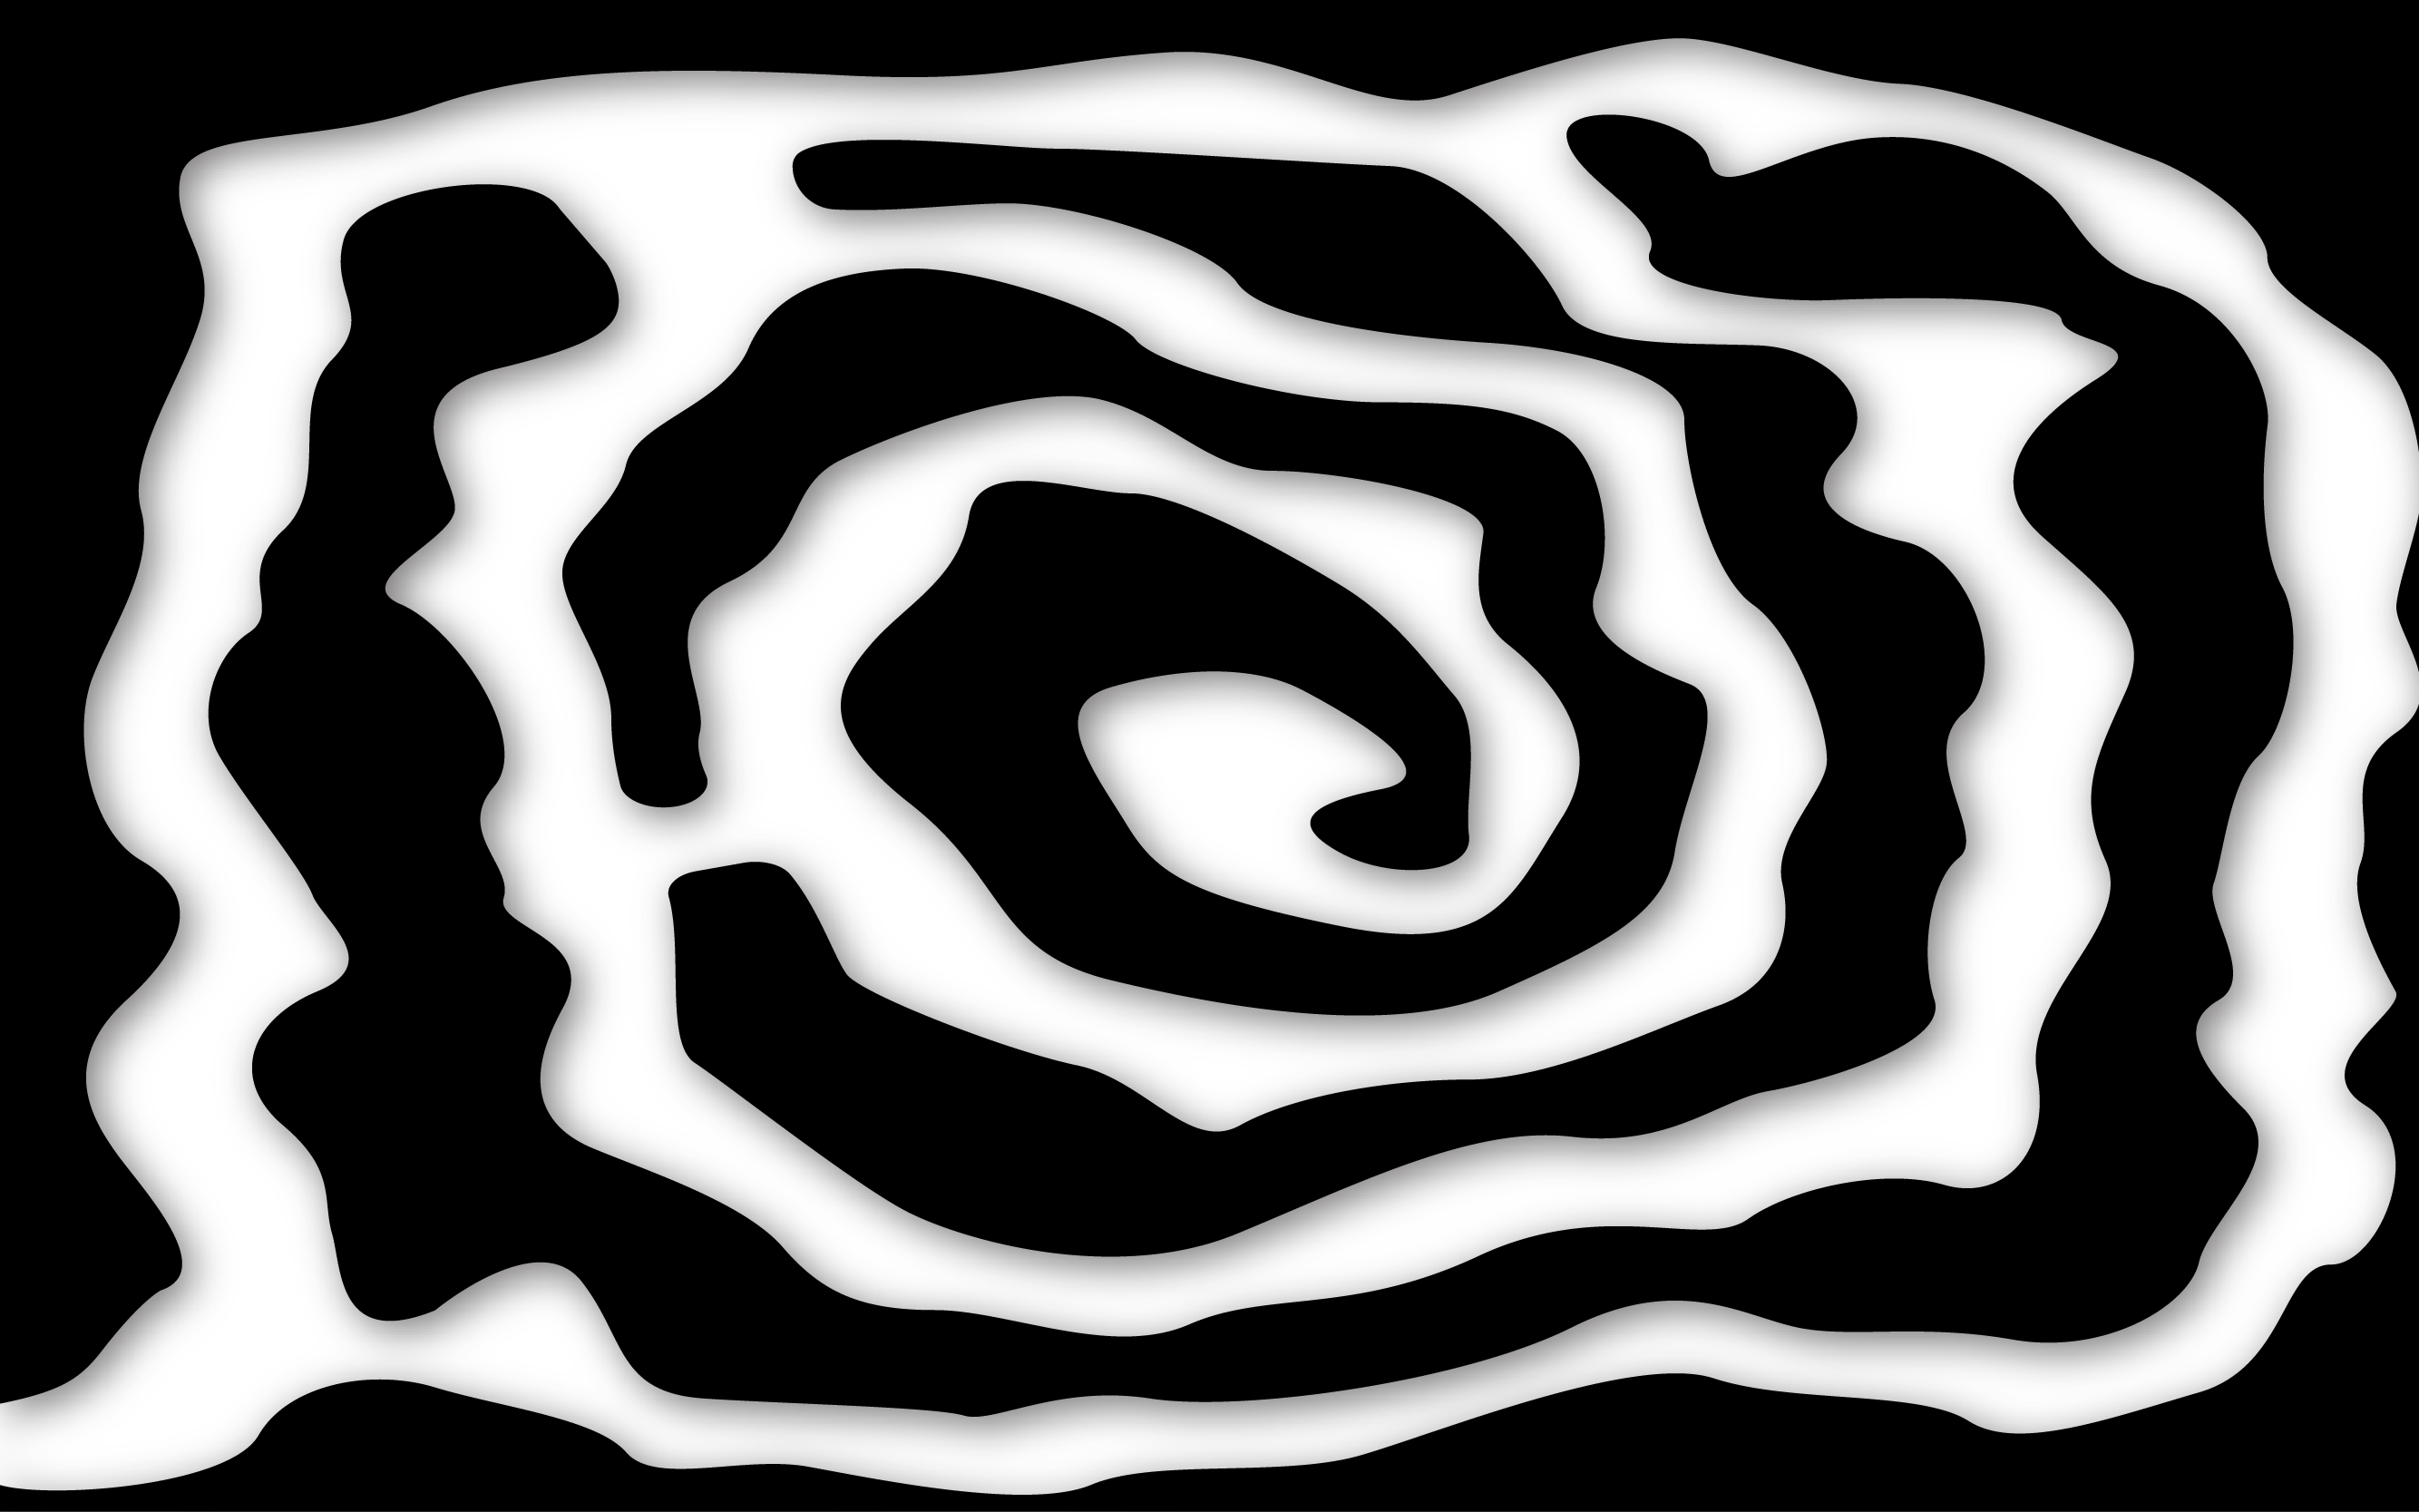
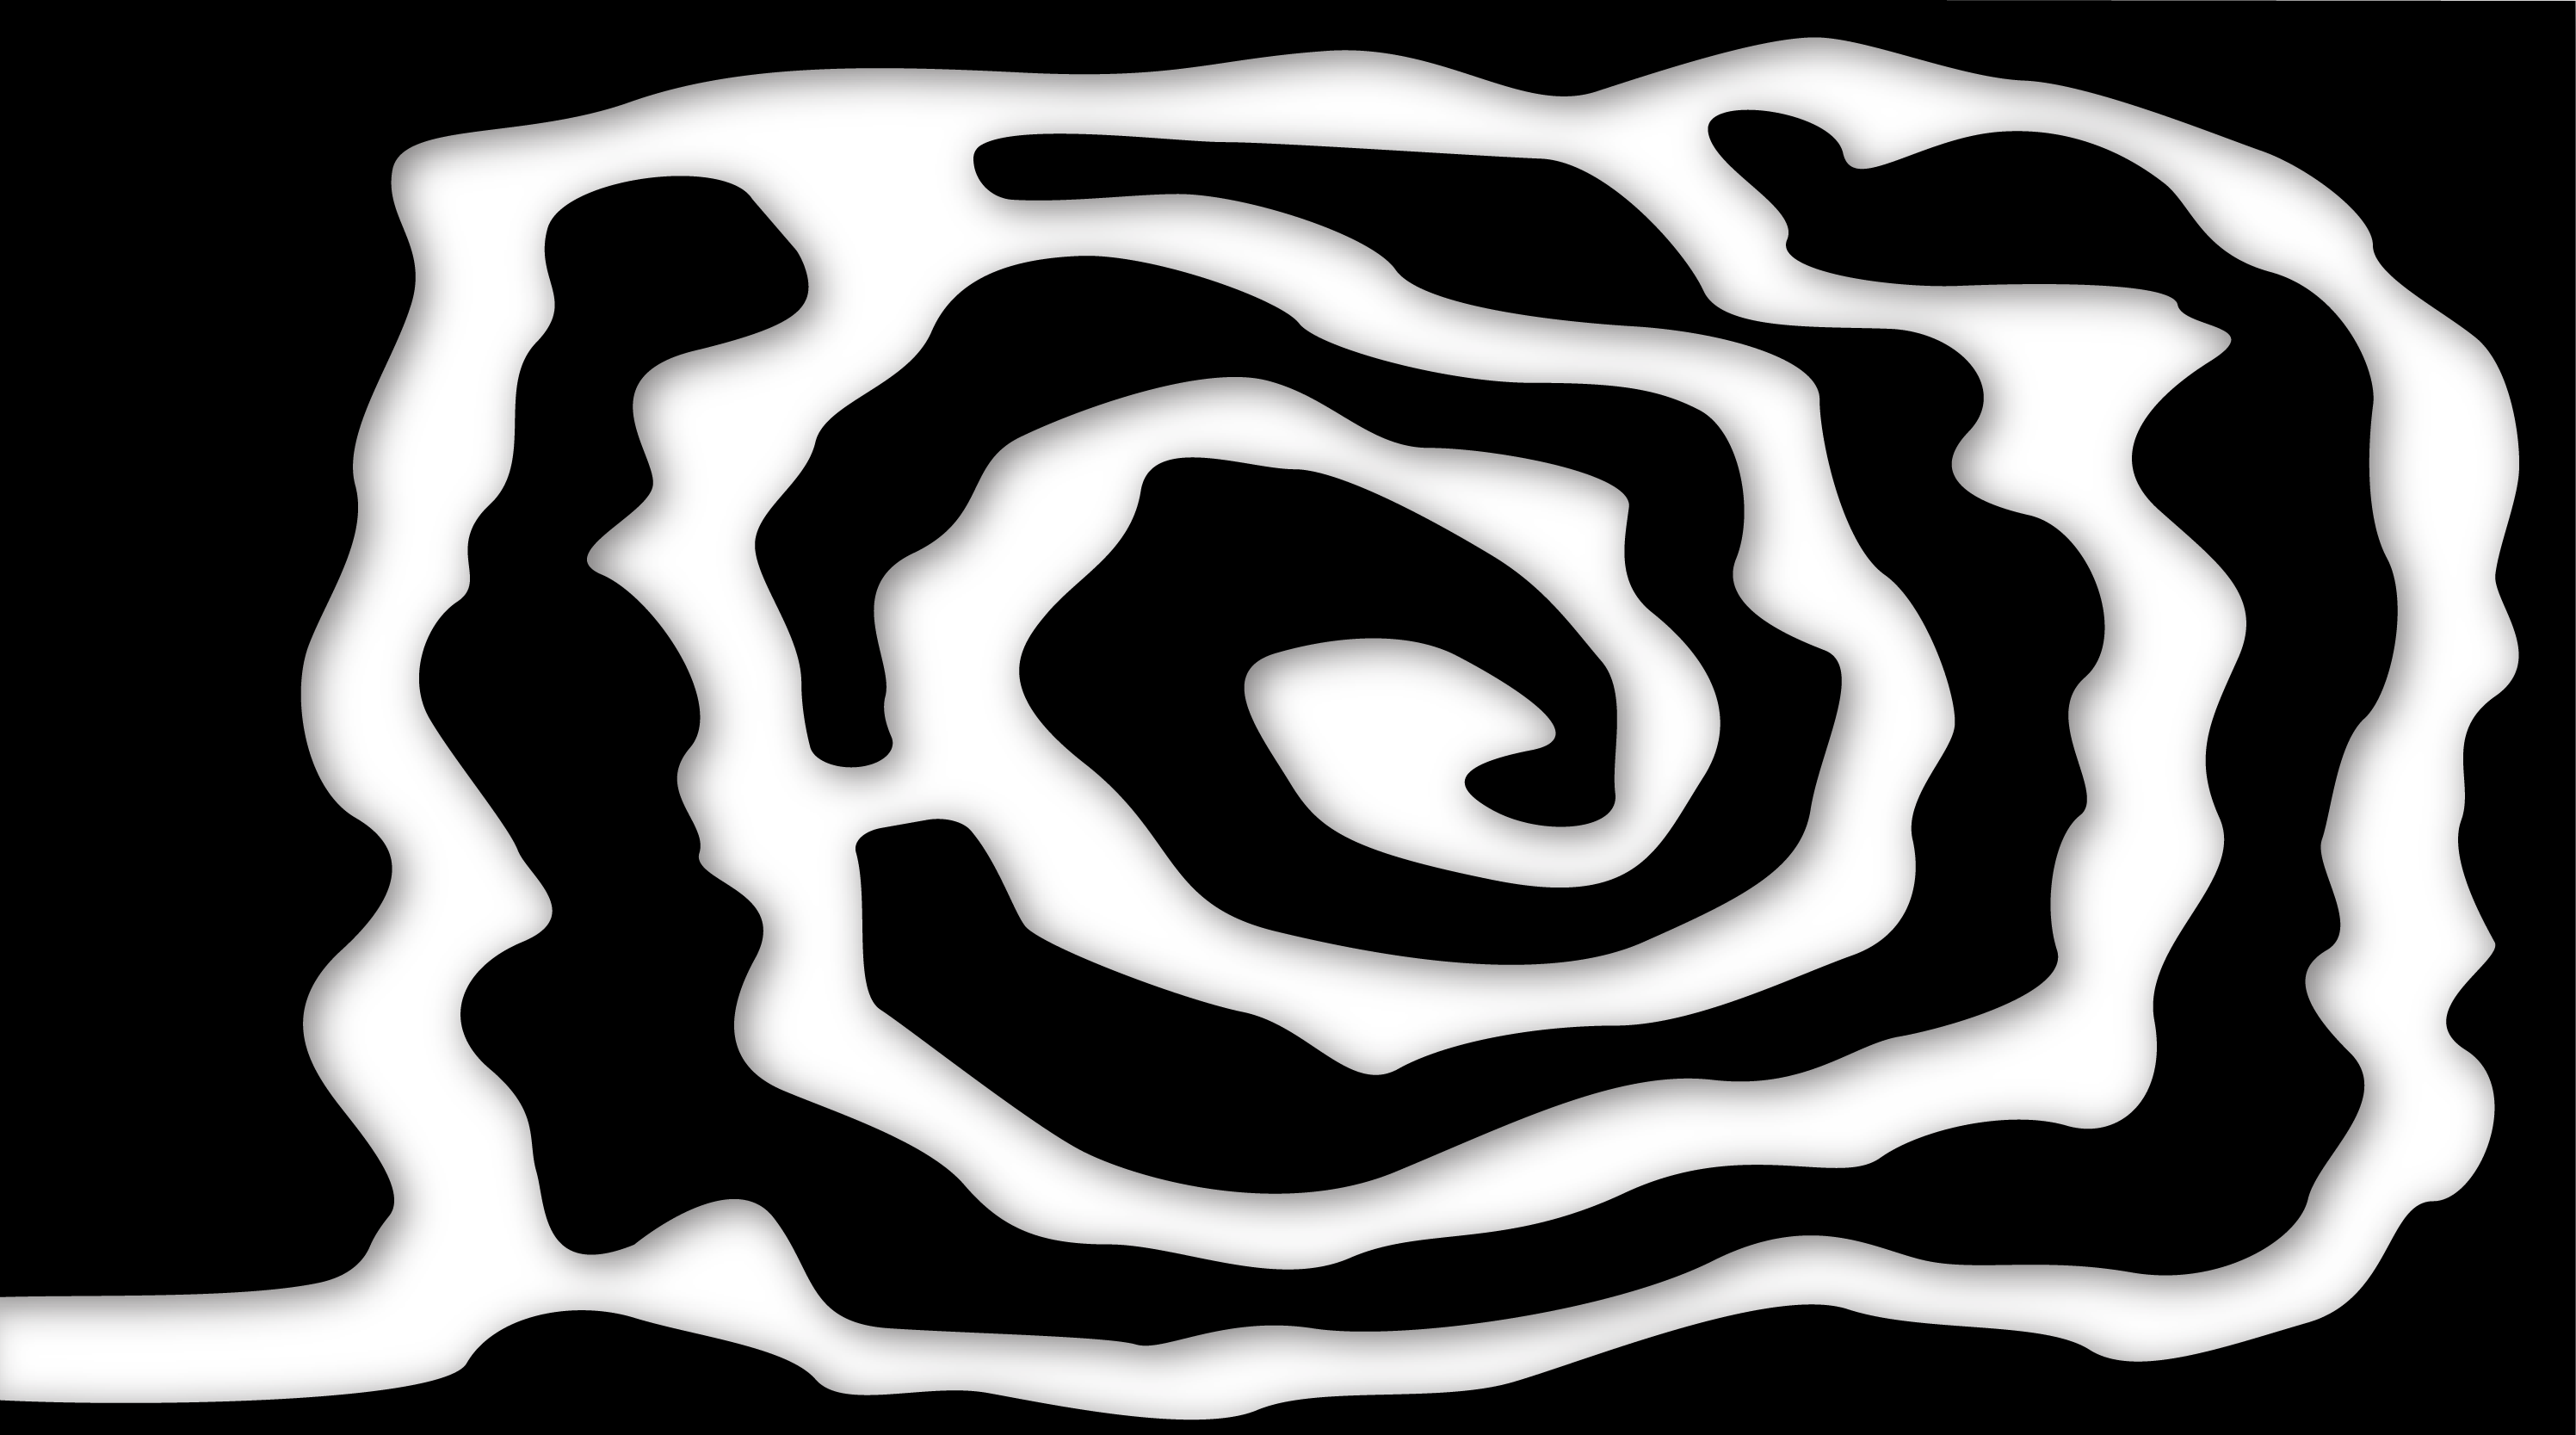
loop5 and 12 update

diff --git a/m1n4-th1n-pl4ce/loop12.html b/m1n4-th1n-pl4ce/loop12.html
@@ -59,40 +59,16 @@
     /*background: blue;
   "></div>
 
-  <canvas id="collisionCanvas" style="display:none;"></canvas>
-
-<script>
-var sprite = document.getElementById('sprite');
+  <script>
+  var sprite = document.getElementById('sprite');
 var goal = document.getElementById('goal');
-
 var speed = 5;
 var keys = {};
-
 var x = 560;
 var y = 270;
 
 sprite.style.left = x + 'px';
 sprite.style.top = y + 'px';
-
-
-// ---------- COLLISION IMAGE SETUP ----------
-
-const collisionImage = new Image();
-collisionImage.src = 'pics/maze122.png';
-
-const collisionCanvas = document.getElementById('collisionCanvas');
-const collisionCtx = collisionCanvas.getContext('2d');
-
-collisionImage.onload = function () {
-
-  collisionCanvas.width = collisionImage.width;
-  collisionCanvas.height = collisionImage.height;
-
-  collisionCtx.drawImage(collisionImage, 0, 0);
-};
-
-
-// ---------- KEY INPUT ----------
 
 document.addEventListener('keydown', function(e) {
   keys[e.key] = true;
@@ -102,41 +78,9 @@ document.addEventListener('keyup', function(e) {
   keys[e.key] = false;
 });
 
-
-// ---------- COLLISION CHECK ----------
-
-function canMoveTo(newX, newY) {
-
-  // sample roughly center of sprite
-  var sampleX = newX + 27;
-  var sampleY = newY + 27;
-
-  // convert screen coords to image coords
-  var imgX = Math.floor(
-    sampleX / window.innerWidth * collisionCanvas.width
-  );
-
-  var imgY = Math.floor(
-    sampleY / window.innerHeight * collisionCanvas.height
-  );
-
-  var pixel = collisionCtx.getImageData(imgX, imgY, 1, 1).data;
-
-  // alpha channel
-  var alpha = pixel[3];
-
-  // transparent = walkable
-  return alpha === 0;
-}
-
-
-// ---------- GOAL CHECK ----------
-
 function checkGoal() {
-
   var sr = sprite.getBoundingClientRect();
   var gr = goal.getBoundingClientRect();
-
   if (
     sr.left < gr.right &&
     sr.right > gr.left &&
@@ -147,46 +91,21 @@ function checkGoal() {
   }
 }
 
-
-// ---------- MOVEMENT ----------
-
 function move() {
-
-  if (keys['ArrowUp']) {
-    if (canMoveTo(x, y - speed)) {
-      y -= speed;
-    }
-  }
-
-  if (keys['ArrowDown']) {
-    if (canMoveTo(x, y + speed)) {
-      y += speed;
-    }
-  }
-
-  if (keys['ArrowLeft']) {
-    if (canMoveTo(x - speed, y)) {
-      x -= speed;
-    }
-  }
-
-  if (keys['ArrowRight']) {
-    if (canMoveTo(x + speed, y)) {
-      x += speed;
-    }
-  }
+  if (keys['ArrowUp'])    y -= speed;
+  if (keys['ArrowDown'])  y += speed;
+  if (keys['ArrowLeft'])  x -= speed;
+  if (keys['ArrowRight']) x += speed;
 
   sprite.style.top = y + 'px';
   sprite.style.left = x + 'px';
 
   checkGoal();
-
   requestAnimationFrame(move);
 }
 
 move();
-
-</script>
+  </script>
 
 </body>
 </html>

diff --git a/m1n4-th1n-pl4ce/loop5.html b/m1n4-th1n-pl4ce/loop5.html
@@ -20,7 +20,13 @@
     }
   </style>
 </head>
-<body style="background-image: url('pics/maze5.png');">
+<body style="
+  background-color: yellow;
+  background-image: url('pics/maze5.png');
+  background-size: 100% 100%;
+  background-repeat: no-repeat;
+  background-position: center;
+">
 
   <audio id="bg-sound" src="sounds/loop.mp3" loop></audio>
   <script>
@@ -31,12 +37,7 @@
   <img src="pics/trick2.svg" class="floating">
   <a href="scene4.html" class="continue-btn">Continue differently</a>
 
-  <img id="sprite" src="pics/dolphin.svg" style="
-    position: absolute;
-    width: 65px;
-    top: 50%;
-    left: 50%;
-  ">
+<img id="sprite" src="pics/dolphin.svg" style="position: absolute; width: 55px;">
 
   <div id="goal" style="
     position: absolute;
@@ -45,6 +46,15 @@
     bottom: 1%;
     left: 5%;
     /*background: red;*/
+  "></div>
+
+  <div id="start" style="
+    position: absolute;
+    width: 20px;
+    height: 20px;
+    top: 50%;
+    left: 53%;
+    background: blue;
   "></div>
 
   <script>